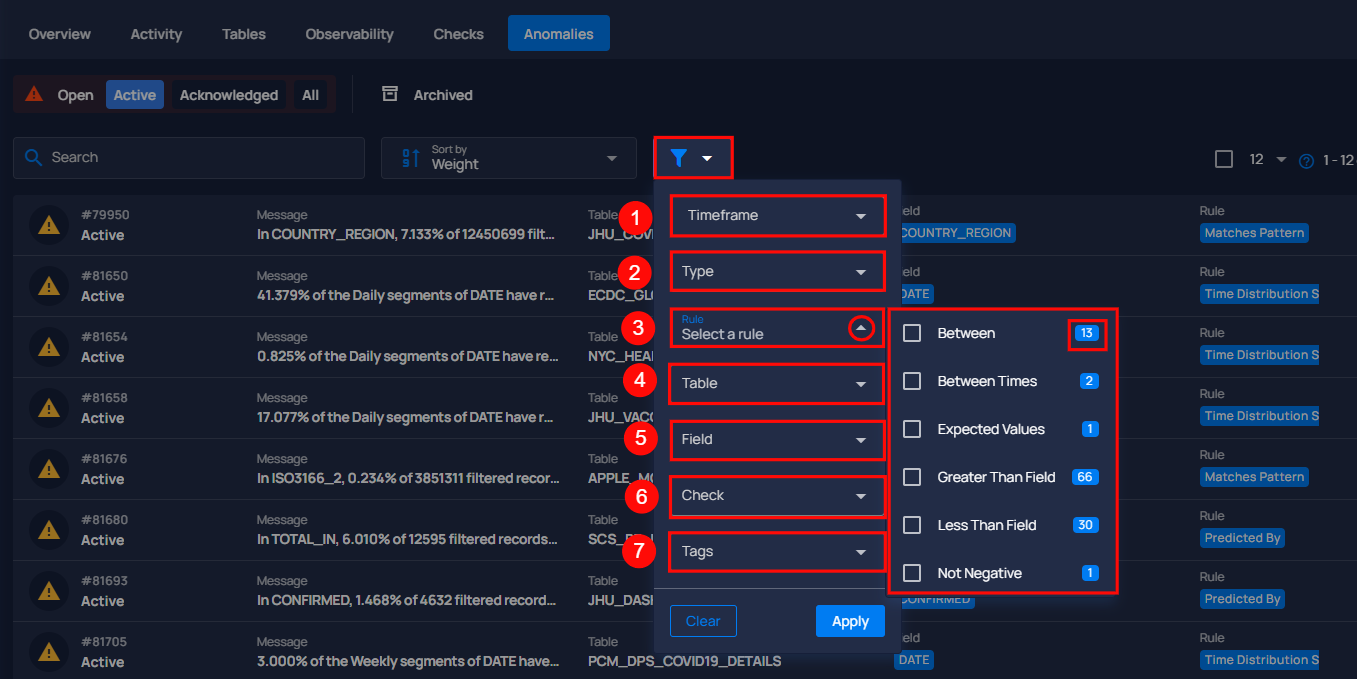
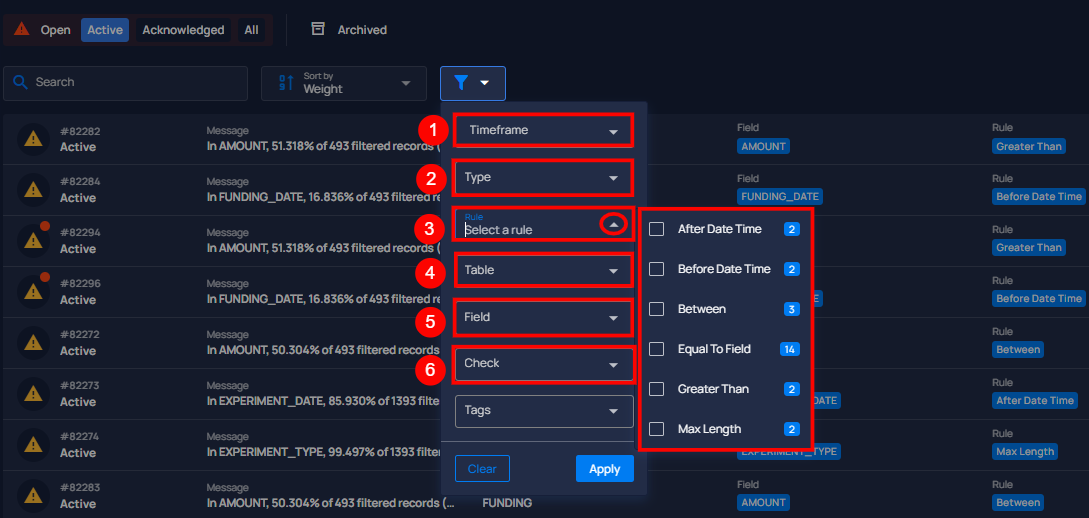
QUA-534: Update "Manage Anomalies" userguide as per the latest release.

diff --git a/docs/anomalies/manage-anomalies.md b/docs/anomalies/manage-anomalies.md
@@ -442,10 +442,16 @@ You can filter your anomalies based on values like **Timeframe**, **Type**, **Ru
 | :---- | :---- | :---- |
 | **1** | **Timeframe** | Filtering anomalies detected within specific time ranges (e.g., anomalies detected in the last week or year). |
 | **2** | **Type** | Filter anomalies based on anomaly type (Record or Shape). |
-| **3** | **Rule** | Filter anomalies based on specific rules applied to the anomaly. By clicking on the caret down button next to the Rule field, the available rule types will be dynamically populated based on the rule types present in the results. The rules displayed are based on the current dataset and provide more granular control over filtering. <br> <br> Each rule type will show a counter next to it, displaying the total number of occurrences for that rule in the dataset.<br> <br> For example, the rule type **Between** is displayed with a total of **13** occurrences. |
+| **3** | **Rule** | Filter anomalies based on specific rules applied to the anomaly. By clicking on the caret down button next to the Rule field, the available rule types will be dynamically populated based on the rule types present in the results. The rules displayed are based on the current dataset and provide more granular control over filtering. <br> <br> Each rule type will show a counter next to it, displaying the total number of occurrences for that rule in the dataset.<br> <br> For example, the rule type **Between** is displayed with a total of **3** occurrences. |
 | **4** | **Table** | Filters anomalies based on the table where they occurred. |
 | **5** | **Field** | Filters anomalies based on the column in the table where the issue was found. |
 | **6** | **Check** | Filters anomalies based on the check that generated them. |
-| **7** | **Tags** | Filters anomalies by tags that have been applied to checks or rules. |
+
+![filter](../assets/datastores/manage-anomalies/filters-light.png#only-light)
+![filter](../assets/datastores/manage-anomalies/filters-dark.png#only-dark)
+
+| No. | Filter | Description |
+| :---- | :---- | :---- |
+| **7** | **Tags** | Tag Filter displays only the tags associated with the currently visible items, along with their color icon, name, type, and the number of matching records. Selecting one or more tags refines the list based on your selection. If no matching items are found, a No option found message is displayed. |
 
 
